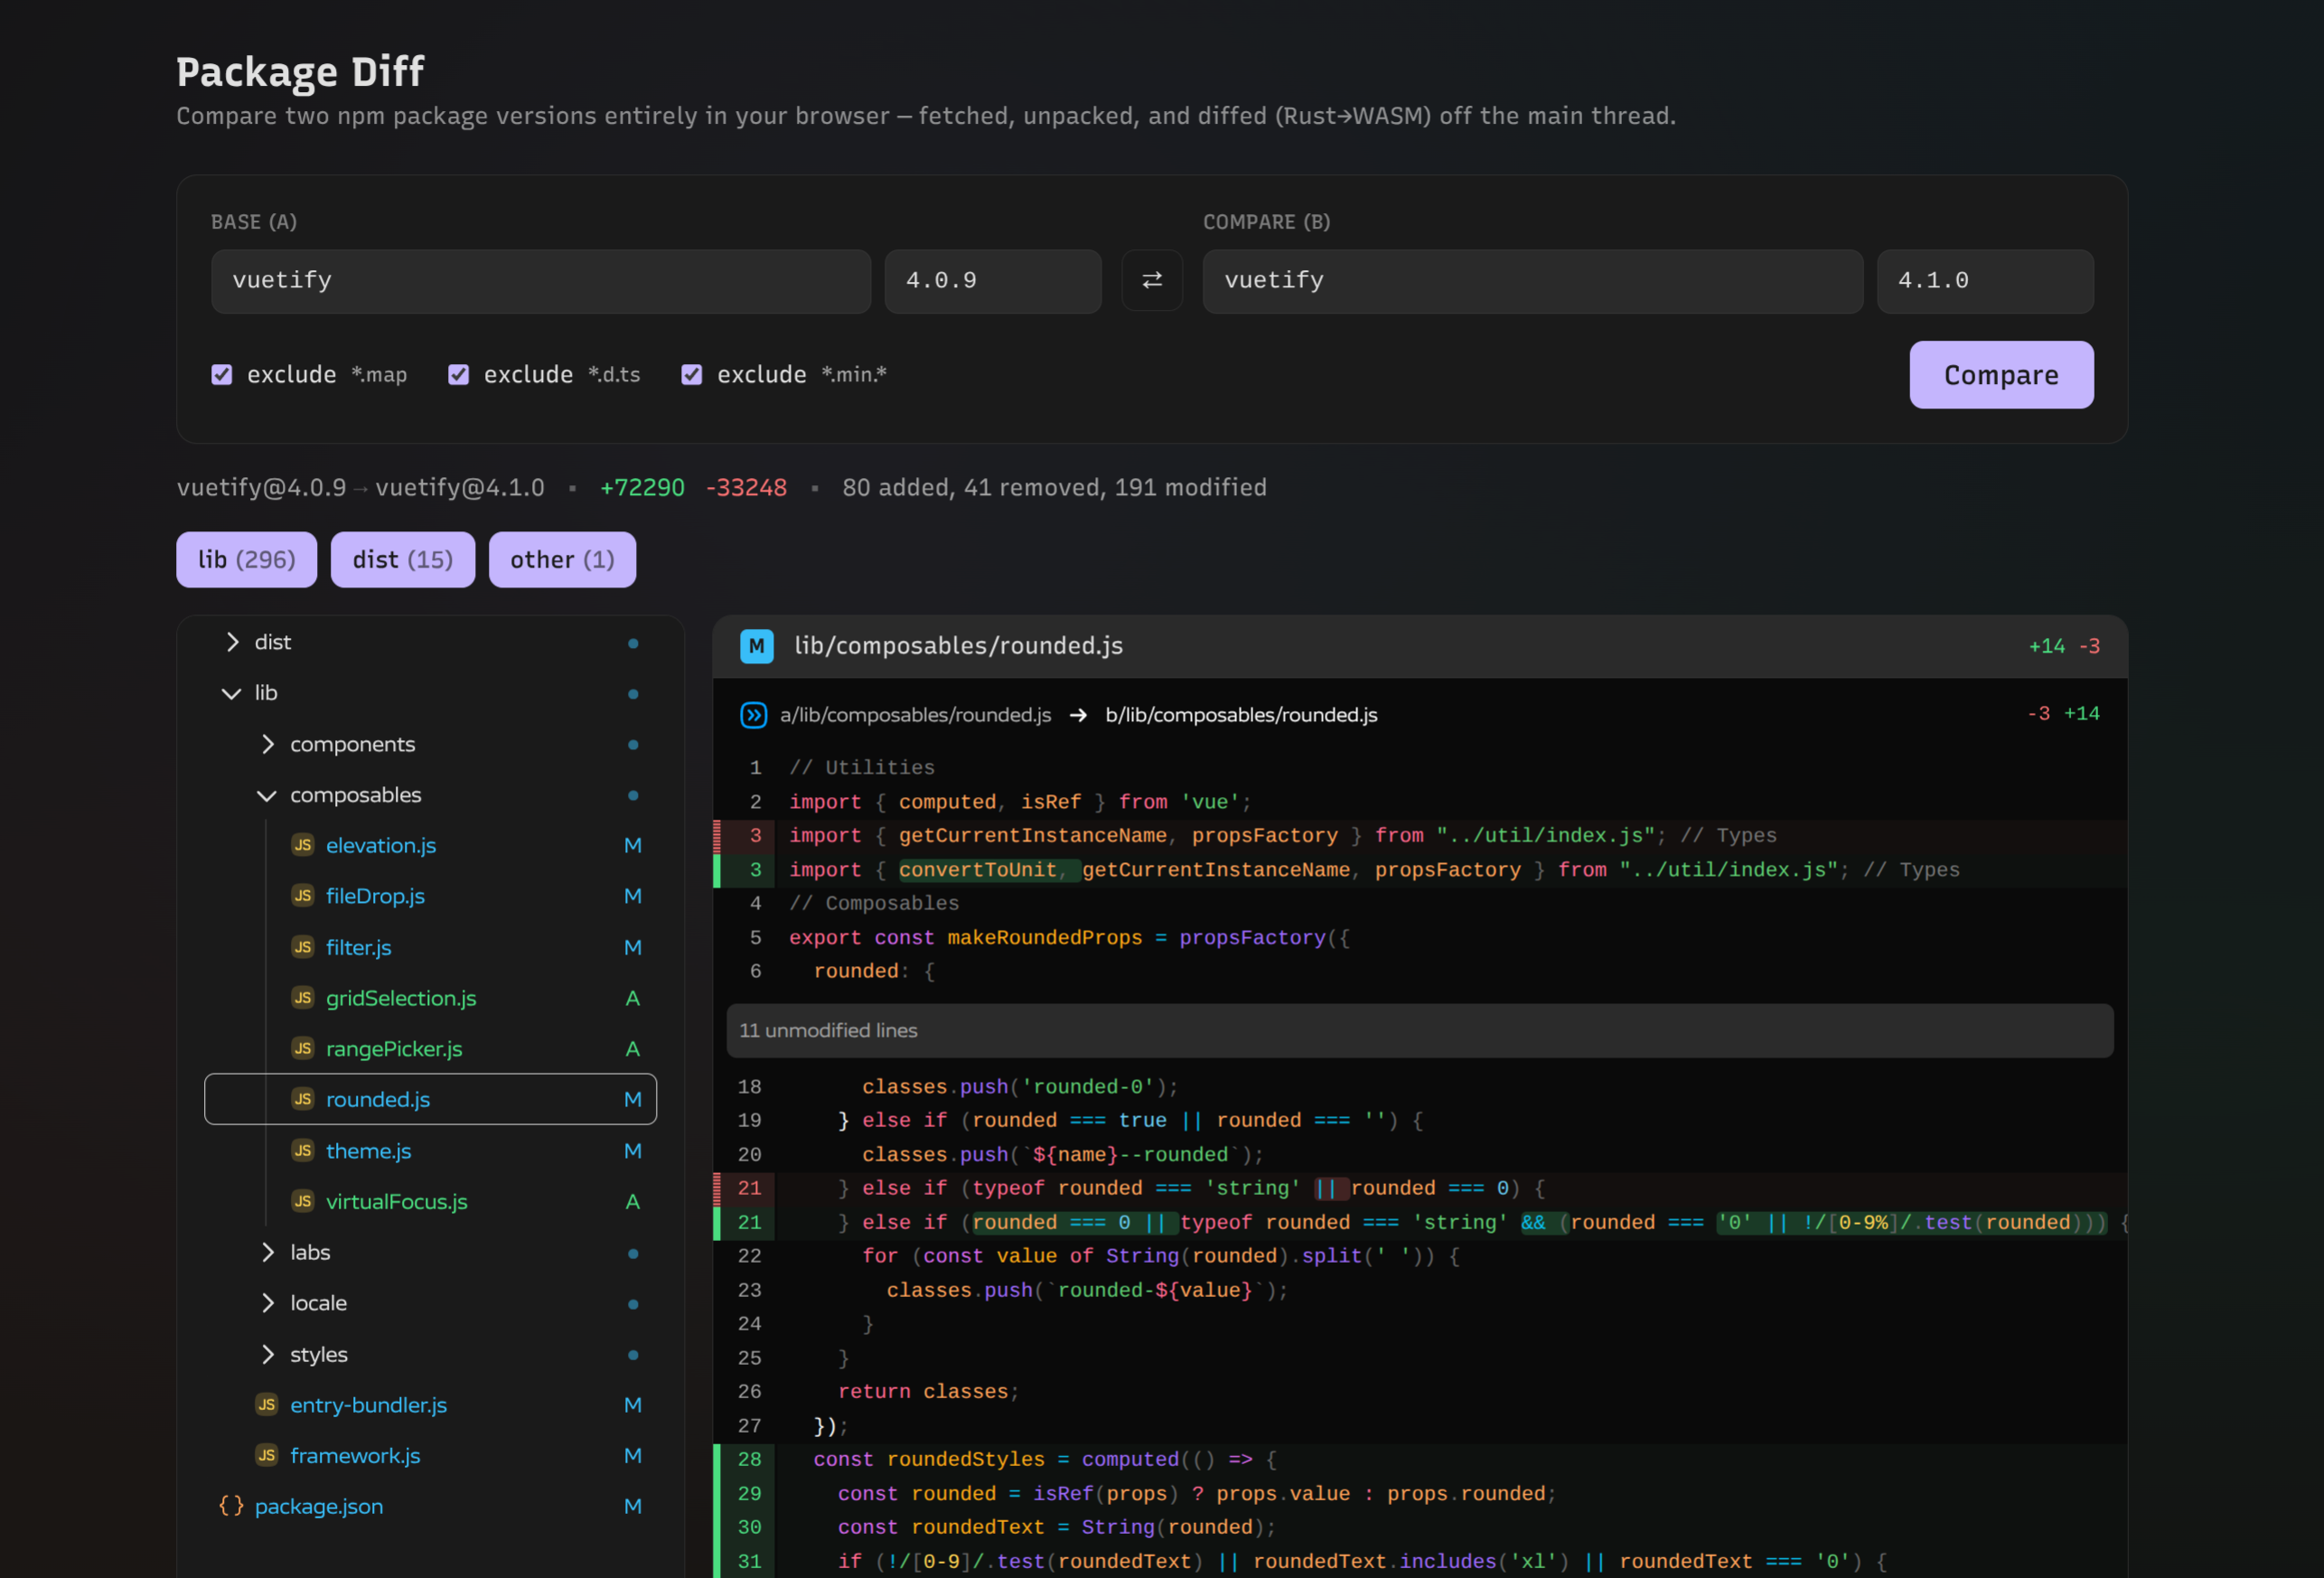
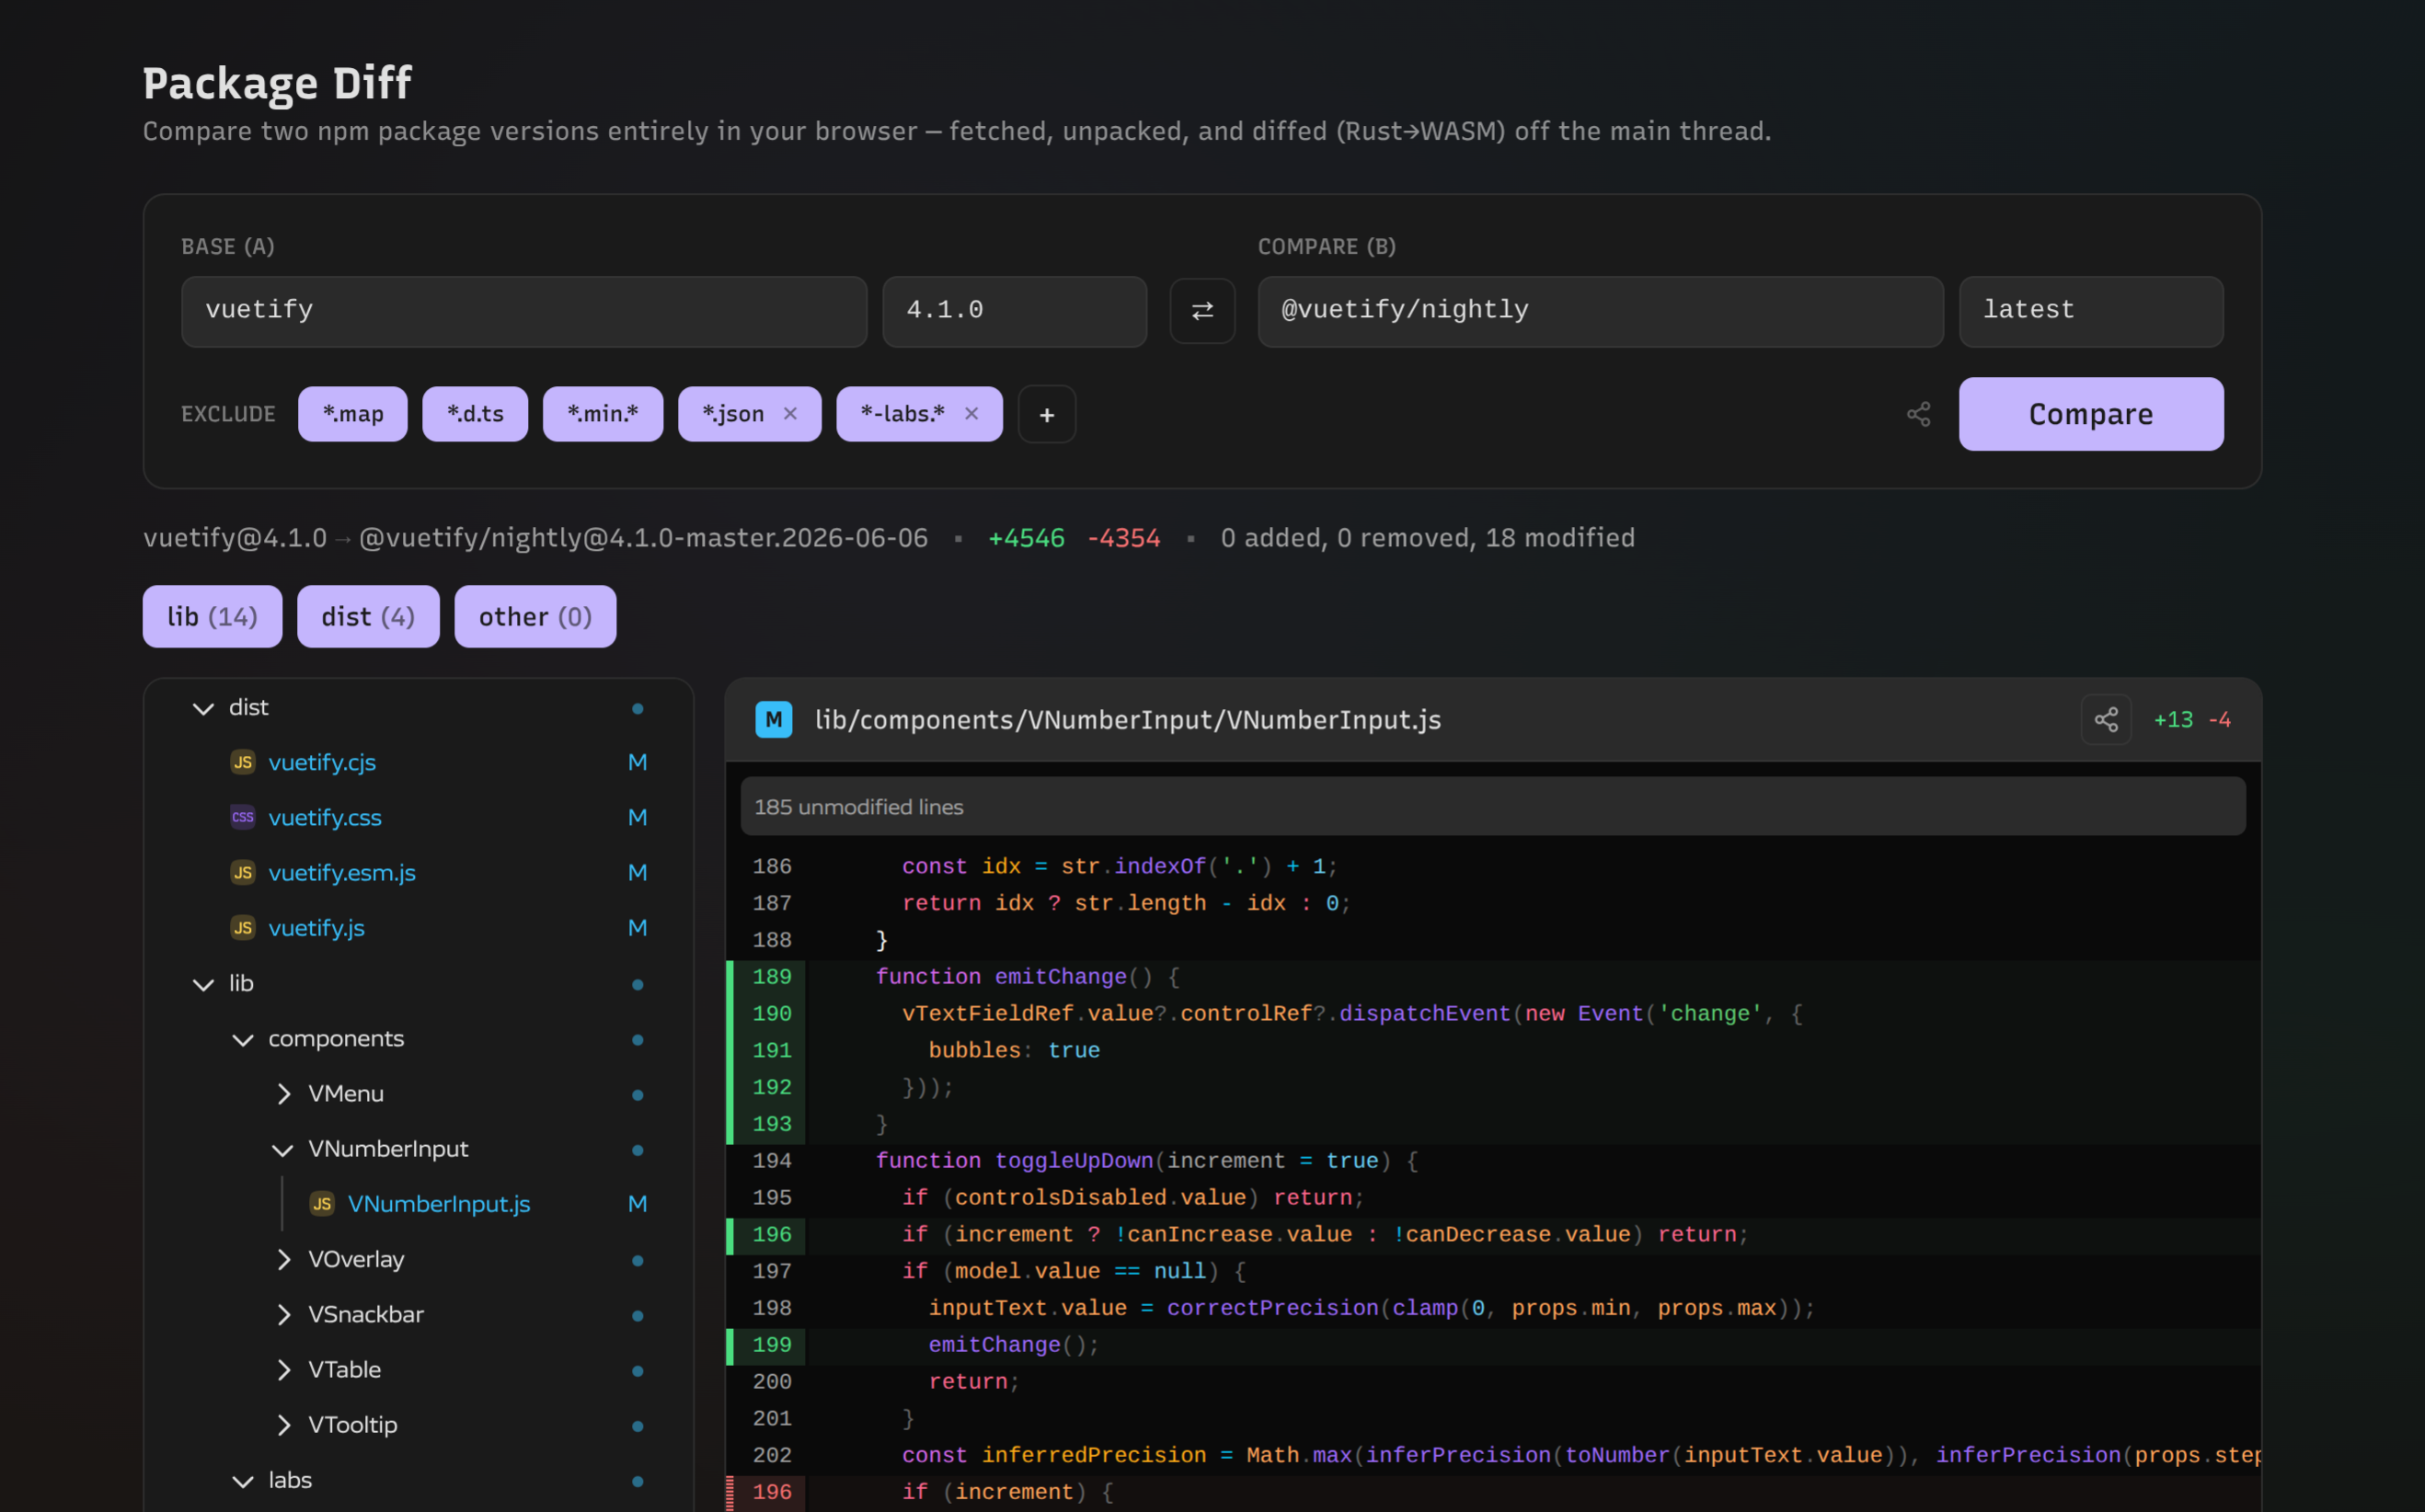
chore: update readme

diff --git a/README.md b/README.md
@@ -1,110 +1,13 @@
 # pkg-diff
 
-Diff two npm package versions **entirely in the browser**. Built as a static site
-(no server, no backend) on top of [Vuetify0](https://0.vuetifyjs.com/).
+Diff two npm package versions **entirely in the browser** — no server, no
+backend. Tarballs are fetched straight from the npm registry, unpacked, and
+diffed client-side, with the line-diffing done by a **Rust → WebAssembly**
+module. The whole app is a static site you can drop on any host.
 
 **[Try it live → pkg-diff.netlify.app](https://pkg-diff.netlify.app/)**
 
 ![pkg-diff screenshot](./screenshot.png)
-
-The original manual workflow this replaces:
-
-```bash
-# download + extract two tarballs, then:
-diff -r --exclude="*.map" --exclude="*.d.ts" \
-  ./vuetify-4.1.0/package/lib \
-  ./@vuetify__nightly-4.1.0-master.../package/lib
-```
-
-…now happens with two inputs and a button. The default comparison is the user's
-real use-case: `vuetify@latest` vs `@vuetify/nightly@latest`.
-
-## How it works
-
-Everything heavy runs in a **Web Worker** so the main thread stays responsive:
-
-1. **Resolve** — fetch the packument from `registry.npmjs.org` (sends
-   `Access-Control-Allow-Origin: *`, so no proxy needed) and turn a version or
-   dist-tag like `latest` into a concrete tarball URL.
-2. **Download + cache** — fetch the `.tgz`, storing bytes in the **Cache Storage
-   API** keyed by URL. Version tarballs are immutable, so cache hits are free and
-   never stale.
-3. **Extract** — gunzip with the native `DecompressionStream('gzip')` (no WASM
-   needed for this), then a small dependency-free tar parser handles ustar,
-   `prefix` long names, PAX (`x`) and GNU (`L`) headers. The leading `package/`
-   directory npm wraps everything in is stripped.
-4. **Diff** — file trees are compared for added / removed / modified. Modified
-   text files are line-diffed by a **Rust → WASM** module (the `similar` crate)
-   that produces a unified diff; binary files are detected and skipped.
-5. **Render** — a scope filter (`lib` / `dist` / `other`), a virtualized file
-   tree sidebar ([`@pierre/trees`](https://diffs.com)) with A/M/D status, and a
-   diff content pane ([`@pierre/diffs`](https://diffs.com)).
-
-### Diff rendering (Pierre)
-
-The sidebar uses `@pierre/trees` and the content pane uses `@pierre/diffs` — both
-via their **framework-agnostic vanilla cores** (no React), wrapped in thin Vue
-components (`PierreTree.vue`, `PierreFileDiff.vue`) that render into a container
-element and clean up on unmount.
-
-Crucially, `@pierre/diffs` renders **from a unified patch**, not the full file:
-we prepend `---`/`+++` headers to the WASM patch and hand it to `processFile()`,
-so a multi-MB minified `dist` file with a small change is still a tiny render.
-It also virtualizes long diffs. Highlighting is **off** (`forcePlainText`, i.e. no
-Shiki highlighter is loaded) — Pierre keeps its gutters/line-numbers/±backgrounds
-but downloads no language grammars. Theming maps `--v0-*` → Pierre's
-`--diffs-*-override` / `--trees-theme-*` custom properties.
-
-> Note: importing `@pierre/diffs` statically bundles Shiki, so `dist/` emits many
-> lazy per-language grammar chunks. They are never fetched at runtime in
-> plain-text mode, but they do inflate the build output.
-
-### Layout
-
-```
-wasm/                      Rust crate → public/diff.wasm (C-ABI, no wasm-bindgen)
-public/diff.wasm           prebuilt module, served statically
-src/lib/
-  registry.ts              npm packument resolution + version listing
-  fetch-tarball.ts         Cache-Storage-backed tarball fetch
-  tar.ts                   DecompressionStream gunzip + tar parser
-  wasm-diff.ts             loads diff.wasm, marshals strings in/out of memory
-  diff-engine.ts           tree diff orchestration (pure, runs in worker)
-  types.ts                 shared, structured-clone-safe types
-src/worker/diff.worker.ts  the pipeline, off the main thread
-src/composables/useDiff.ts main-thread reactive handle for the worker
-src/components/            DiffApp (Vuetify0 + UnoCSS) + PierreTree / PierreFileDiff wrappers
-scripts/verify.mjs         Node end-to-end check against real npm packages
-```
-
-## URL parameters
-
-The two packages being compared are read from (and written back to) the query
-string, so any comparison is a shareable, bookmarkable link.
-
-| Param | Meaning | Default |
-|-------|---------|---------|
-| `a`   | Base package name (left side) | `vuetify` |
-| `b`   | Compare package name (right side) | `@vuetify/nightly` |
-| `av`  | Base version or dist-tag (optional) | `latest` |
-| `bv`  | Compare version or dist-tag (optional) | `latest` |
-
-- Read once on load; missing params fall back to the defaults above.
-- After you hit **Compare**, the URL is rewritten (via `history.replaceState`, so
-  no new history entry) to reflect the current selection. `av`/`bv` are omitted
-  when they are `latest` to keep links clean.
-- Versions may be any published version (`4.1.0`) or a dist-tag (`latest`,
-  `next`, …); the value is passed straight to the npm registry resolver.
-
-```text
-# vue 3.5.0  vs  vue 3.5.13
-?a=vue&av=3.5.0&b=vue&bv=3.5.13
-
-# latest vuetify  vs  the nightly channel (same as no params)
-?a=vuetify&b=@vuetify/nightly
-```
-
-Scoped names work as-is — `@scope/pkg` needs no encoding in the query string.
 
 ## Develop
 
@@ -113,31 +16,14 @@ pnpm install
 pnpm dev
 ```
 
-## Build (static site)
+## Build
 
 ```bash
-pnpm build:wasm   # only needed when wasm/ changes — output is committed
-pnpm build        # type-check + vite build → dist/ (deploy anywhere static)
-pnpm preview      # serve dist/ locally
+pnpm build      # type-check + vite build → dist/ (deploy anywhere static)
+pnpm preview    # serve dist/ locally
 ```
 
-`dist/` is a fully static bundle: `index.html`, hashed JS/CSS, the worker chunk,
-and `diff.wasm` (served with `application/wasm`). Drop it on any static host.
+## Credits
 
-### Rebuilding the WASM module
-
-Requires the Rust toolchain and the wasm target:
-
-```bash
-rustup target add wasm32-unknown-unknown
-pnpm build:wasm
-```
-
-## Verify the pipeline
-
-Runs the real fetch → gunzip → untar → WASM-diff path in Node against live npm:
-
-```bash
-node scripts/verify.mjs                           # vuetify vs @vuetify/nightly
-node scripts/verify.mjs vue 3.5.0 vue 3.5.13      # any two name@version pairs
-```
+Diff rendering is powered by [`@pierre/trees`](https://diffs.com) (file tree
+sidebar) and [`@pierre/diffs`](https://diffs.com) (diff content pane).